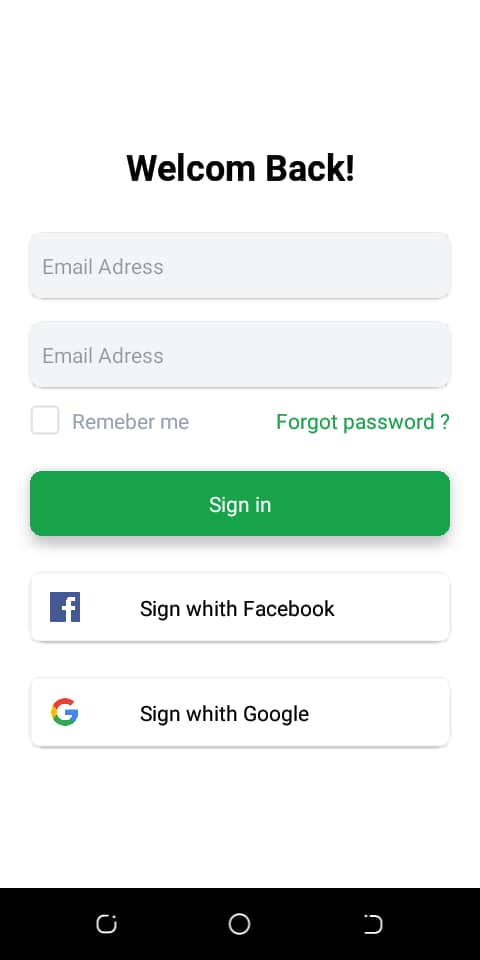
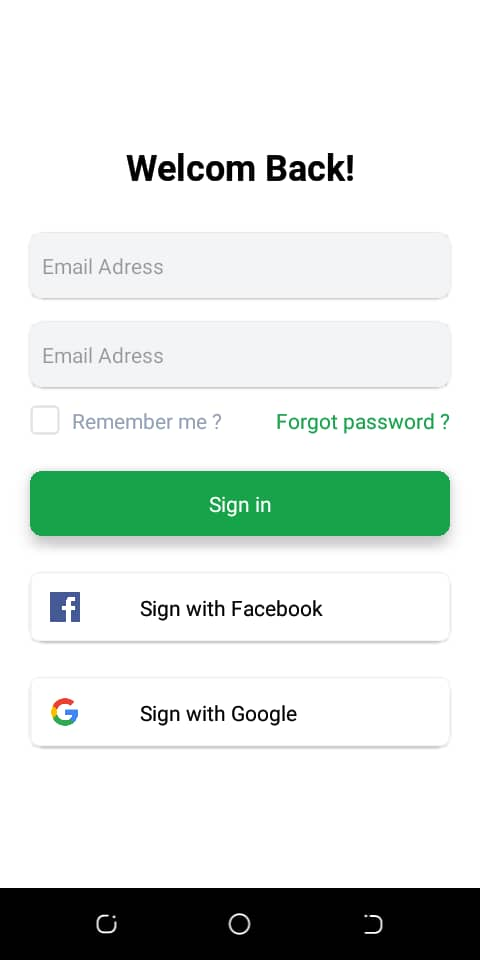
update

diff --git a/screens/Login.js b/screens/Login.js
@@ -20,7 +20,7 @@ const Login = () => {
       <View className="mt-3 w-full flex flex-row ">
         <TouchableOpacity className="h-5 w-5 mr-2 rounded border-2 border-gray-200 justify-center items-center" />
         <View className="flex-1 flex flex-row justify-between items-center">
-          <Text  className="text-slate-400">Remeber me</Text>
+          <Text  className="text-slate-400">Remember me ?</Text>
           <Text className="text-slate-400 text-green-600">
             Forgot password ?
           </Text>
@@ -34,14 +34,14 @@ const Login = () => {
       <TouchableOpacity className="mt-6 bg-white rounded-lg shadow-sm" onPress={() => alert('Button Facebook')}>
       <View className="border border-1 border-gray-100 rounded-md p-3 flex flex-row">
         <Image source={require('../assets/facebook.png')} className="w-5 h-5"></Image>
-        <Text className="mx-10 text-sm">Sign whith Facebook</Text>
+        <Text className="mx-10 text-sm">Sign with Facebook</Text>
       </View>
       </TouchableOpacity>
 
       <TouchableOpacity className="mt-6 bg-white rounded-lg shadow-sm" onPress={() => alert('Button Google')}>
       <View className="border border-1 border-gray-100 rounded-md p-3 flex flex-row">
         <Image source={require('../assets/google.png')} className="w-5 h-5"></Image>
-        <Text className="mx-10 text-sm">Sign whith Google</Text>
+        <Text className="mx-10 text-sm">Sign with Google</Text>
       </View>
       </TouchableOpacity>
       </View>
